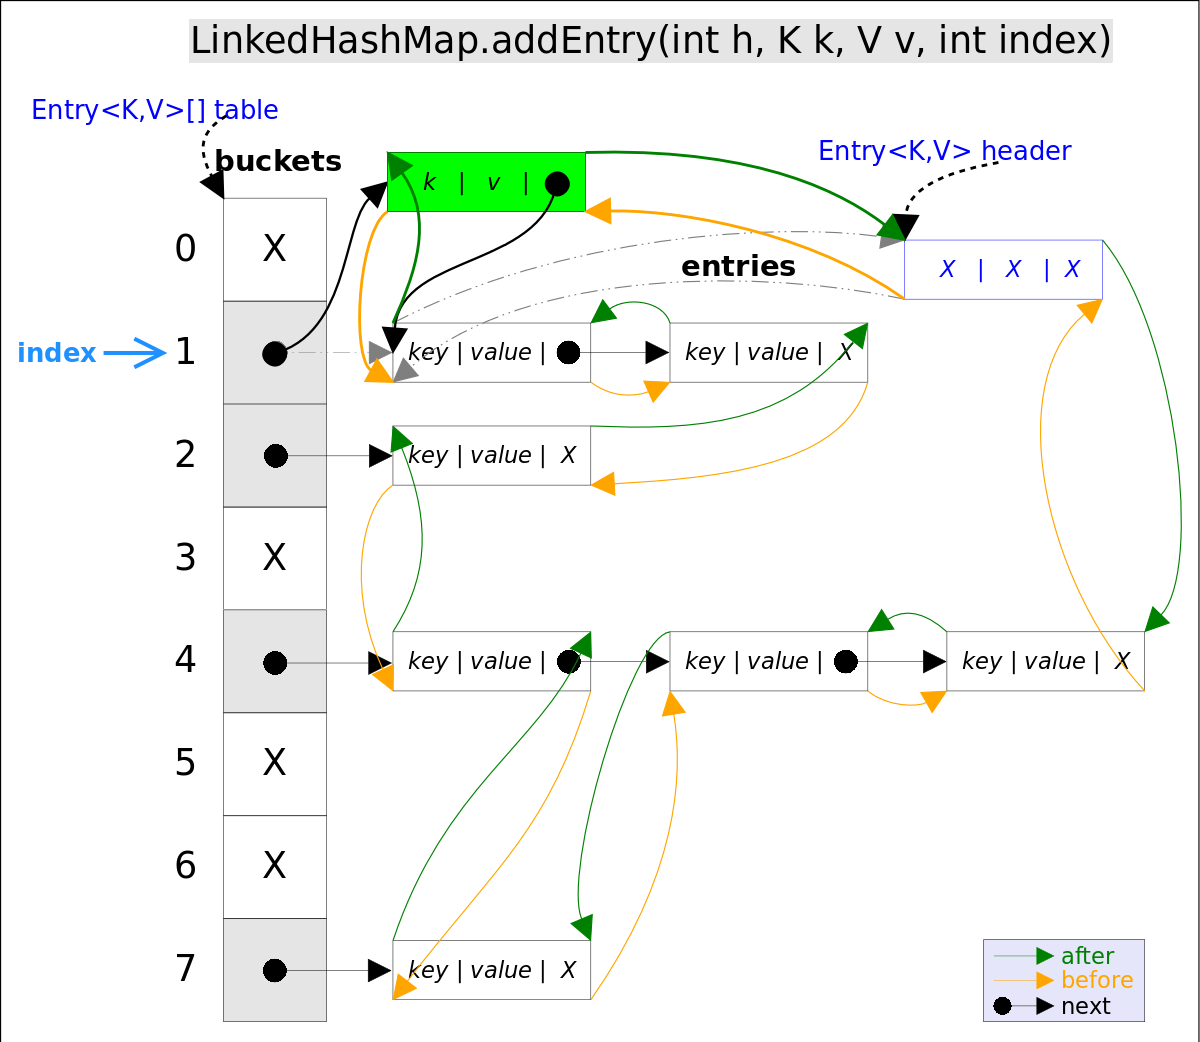
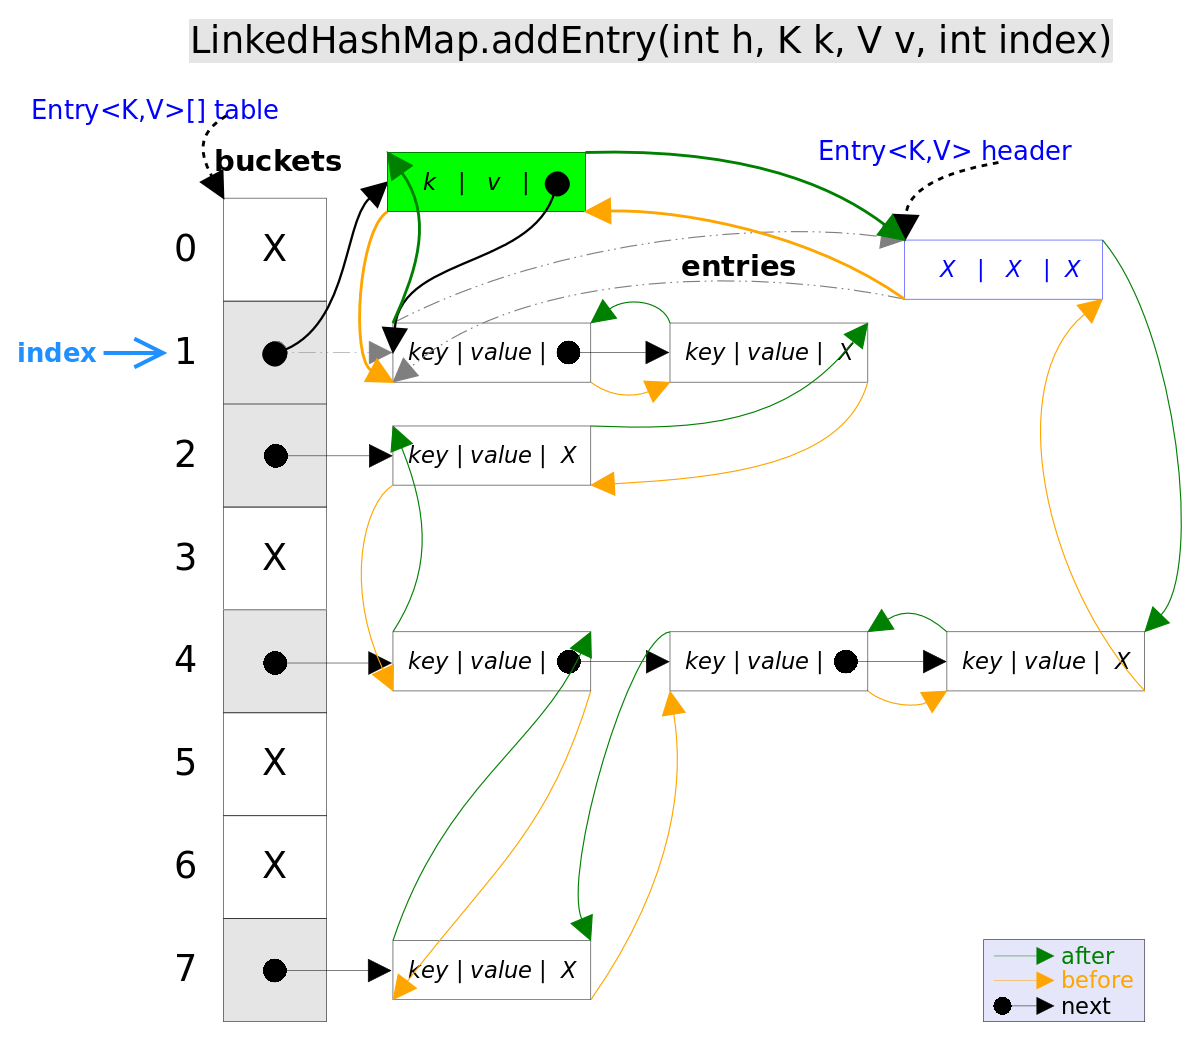
修改图片格式

Changed region(s): [[0.9867, 0.0, 1.0, 1.0], [0.0, 0.0, 0.0308, 0.0307]]

diff --git a/notes/JavaArchitecture/02 Java 集合框架.md b/notes/JavaArchitecture/02 Java 集合框架.md
@@ -1474,7 +1474,13 @@ void foo(Map m) {
 > 1. 从`table`的角度看，新的`entry`需要插入到对应的`bucket`里，当有哈希冲突时，采用头插法将新的`entry`插入到冲突链表的头部。
 > 2. 从`header`的角度看，新的`entry`需要插入到双向链表的尾部。
 
-[![LinkedHashMap_addEntry.png](https://github.com/CarpenterLee/JCFInternals/raw/master/PNGFigures/LinkedHashMap_addEntry.png)](https://github.com/CarpenterLee/JCFInternals/blob/master/PNGFigures/LinkedHashMap_addEntry.png)
+<div align="center"> 
+
+
+
+<img src="../pics/LinkedHashMap_addEntry.png" width="700"/></div><br/>
+
+
 
 `addEntry()`代码如下：
 
@@ -1519,7 +1525,11 @@ private void addBefore(Entry<K,V> existingEntry) {
 > 1. 从`table`的角度看，需要将该`entry`从对应的`bucket`里删除，如果对应的冲突链表不空，需要修改冲突链表的相应引用。
 > 2. 从`header`的角度来看，需要将该`entry`从双向链表中删除，同时修改链表中前面以及后面元素的相应引用。
 
-[![LinkedHashMap_removeEntryForKey.png](https://github.com/CarpenterLee/JCFInternals/raw/master/PNGFigures/LinkedHashMap_removeEntryForKey.png)](https://github.com/CarpenterLee/JCFInternals/blob/master/PNGFigures/LinkedHashMap_removeEntryForKey.png)
+
+
+<div align="center"> <img src="../pics/LinkedList_remove.png" width="700"/></div><br/>
+
+
 
 `removeEntryForKey()`对应的代码如下：
 
@@ -1551,6 +1561,8 @@ final Entry<K,V> removeEntryForKey(Object key) {
 }
 ```
 
+
+
 ### 5. LinkedHashSet
 
 前面已经说过*LinkedHashSet*是对*LinkedHashMap*的简单包装，对*LinkedHashSet*的函数调用都会转换成合适的*LinkedHashMap*方法，因此*LinkedHashSet*的实现非常简单，这里不再赘述。
@@ -1571,6 +1583,8 @@ public class LinkedHashSet<E>
     ......
 }
 ```
+
+
 
 ### 6. LinkedHashMap经典用法
 
